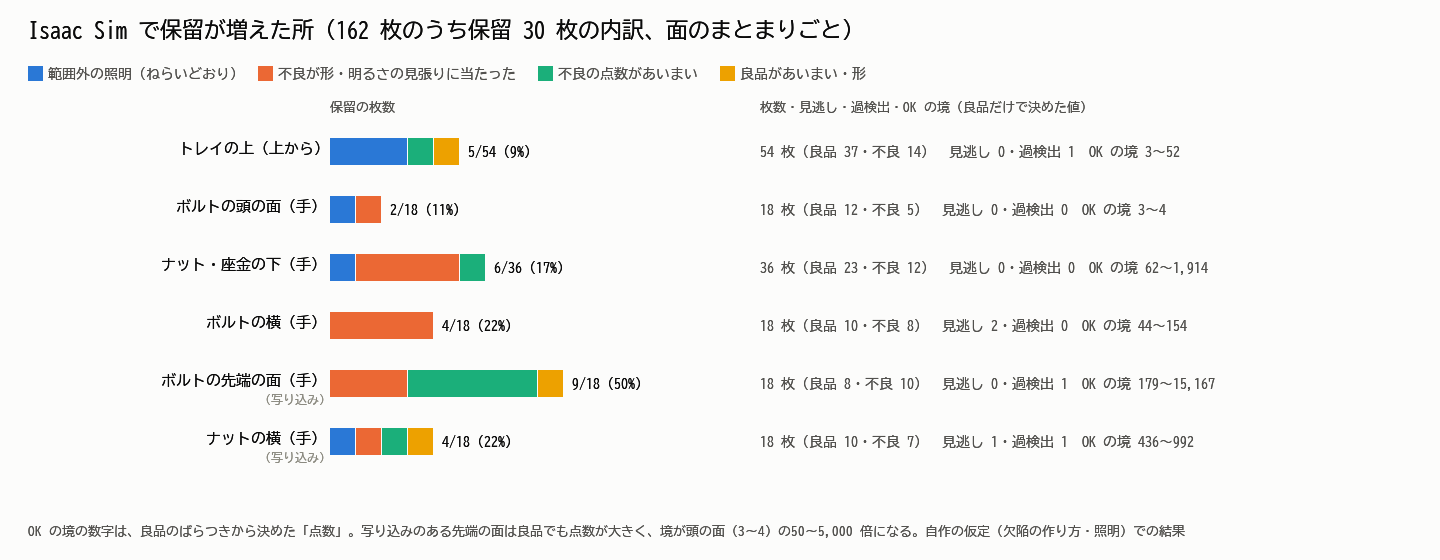
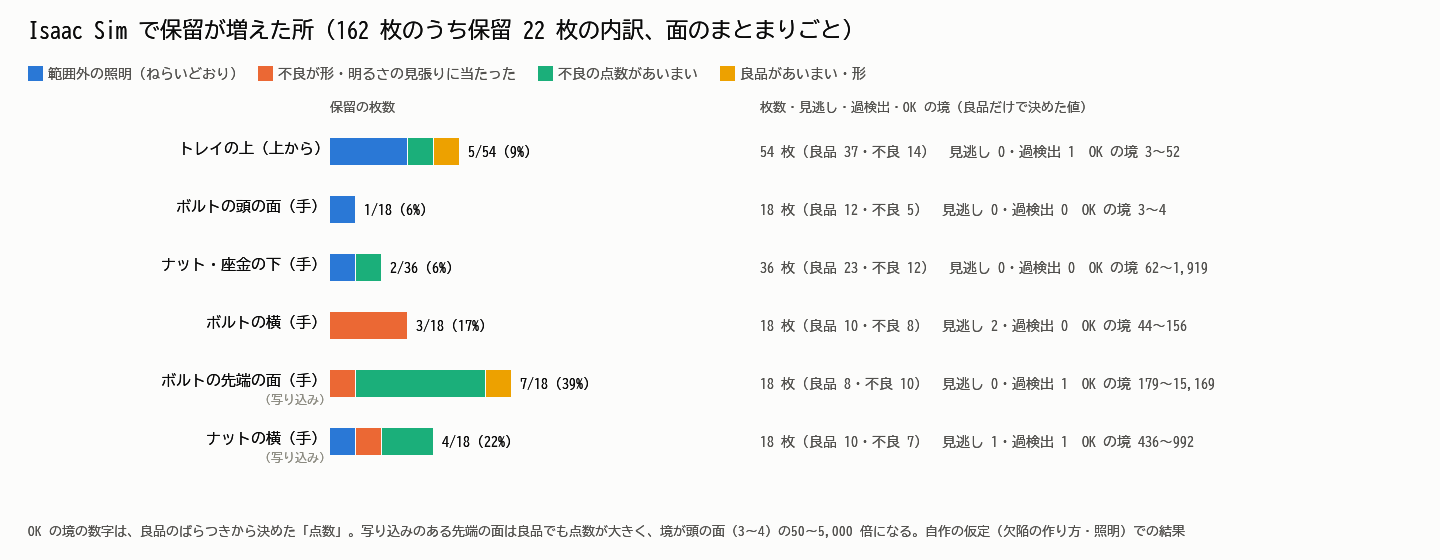
検査の見張りを「部品の面積」から「学んだ形との差」に直す（Isaac Sim の保留 18.5% → 13.6%、見逃し・過検出は据え置き）
- inspection.py: 合わせたマスクと学んだ形を比べ、欠け（濃い汚れ・打痕の候補 → 点数へ）とはみ出し（指・隣の部品 → 良品で学んだ範囲で見張る）を分ける。
  欠けて重心がずれたら相互相関で学んだ形に合わせ直し、明るさの平面は欠けた所を除いて当てはめる。欠けがない良品の判定は変わらない
- 見張りに当たっていた 13 枚のうち 8 枚が NG、5 枚は明るさの見張りで保留のまま。疑似画像 200 枚は変わらず
- pytest 6 件追加（test_dual_arm 134 件合格）。isaac/README と図を作り直し、LOG.md に 2026-11-08 の節

diff --git a/src/dual_arm_inspection/dual_arm_inspection/inspection.py b/src/dual_arm_inspection/dual_arm_inspection/inspection.py
@@ -3,13 +3,15 @@
 藤田さんのナレッジ「精度100%を目指さない外観検査AI」の考えに合わせた:
   - 良品だけで学ぶ: 部品と面の種類ごとに、良品の画像から「平均の見え方」と「ばらつき」を作る
   - 3 段判定: 確実に良品 → OK（自動で通す）、確実に不良 → NG（自動で弾く）、あいまい → 保留（人に回す）
-  - 範囲外の見張り: 明るさ・背景・明るさの傾き・部品の面積が、学んだときの範囲（使用範囲）から外れたら、
-    欠陥の点数に関係なく保留にして人に回す（照明の劣化や外からの光に気づく）
+  - 範囲外の見張り: 明るさ・背景・明るさの傾き・部品の形（学んだ形からのはみ出し）が、学んだときの範囲
+    （使用範囲）から外れたら、欠陥の点数に関係なく保留にして人に回す（照明の劣化や外からの光に気づく）。
+    部品の一部が暗く「欠けて」見えるのは濃い汚れ・打痕の可能性が高いので、範囲外にせず点数に回す
 
 やり方:
   1. 部品を背景から切り出す（大津の二値化 → いちばん大きい輪郭。小さい穴は欠陥なので埋め、大きい穴は残す）
-  2. 重心と軸の向きで、画像を決まった位置・向きに合わせる
-  3. 平均の見え方で割り、明るさの平面（倍率と傾き）を外れ値に強いやり方で当てはめて取り除く
+  2. 重心と軸の向きで、画像を決まった位置・向きに合わせる。部品が暗く欠けて（濃い汚れ・打痕）重心がずれたときは、
+     残った明るい所が学んだ形にいちばん収まる位置・向きへ合わせ直す
+  3. 平均の見え方で割り、明るさの平面（倍率と傾き）を外れ値に強いやり方で当てはめて取り除く（欠けた所は使わない）
   4. 残ったずれを、良品のばらつきで割った値（z）が大きい所をまとめ、いちばん大きいまとまりの強さを点数にする
   5. 点数の 2 つのしきい値（良品だけで決める）で 3 段に分ける
 """
@@ -27,8 +29,13 @@ Z_PIX = 3.0            # 1 画素が「ふつうでない」とみなす z（良
 MIN_AREA = 3
 SIGMA_FLOOR = 0.012
 ALIGN_TOL_PX = 0.35   # 位置合わせのずれの見込み（画素）
-ENV_MARGIN = {"gain": 0.04, "background": 5.0, "grad": 0.03}
-AREA_TOL = 0.15
+# 見張る量と、学んだ範囲に足す余裕。extra は学んだ形からの「はみ出し」の割合（指・隣の部品・別の部品に気づく。
+# 手で持つ面は良品でも指が写るので、良品で学んだ範囲で見る）
+ENV_MARGIN = {"gain": 0.04, "background": 5.0, "grad": 0.03, "extra": 0.03}
+MISSING_MAX = 0.60         # 学んだ形のこの割合より多く欠けていたら、欠陥ではなく部品が違う・見切れているとみなす
+REFINE_MIN = 0.02          # 欠けがこの割合を超えたら、重心がずれているので学んだ形に合わせ直す
+SHAPE_BAND_PX = 2          # 形を比べるとき、縁のこの幅は位置合わせのずれとして数えない
+FIT_ERODE_PX = 3           # 明るさの平面を当てはめるとき、欠けた所の縁からこの幅も使わない（ぼけた縁に引っ張られない）
 COLORS = {"OK": (12, 163, 12), "NG": (208, 59, 59), "HOLD": (250, 178, 25)}  # RGB（状態の色）
 LABEL_JA = {"OK": "OK", "NG": "NG", "HOLD": "保留"}
 _GRIDS: dict[tuple[int, int], tuple[np.ndarray, np.ndarray]] = {}
@@ -106,6 +113,60 @@ def align(gray: np.ndarray, mask: np.ndarray, profile: bool) -> tuple[np.ndarray
     return a, m, M
 
 
+def warp(gray: np.ndarray, mask: np.ndarray, M: np.ndarray) -> tuple[np.ndarray, np.ndarray]:
+    """2x3 の変換で画像とマスクを合わせる（align と同じ補間）。"""
+    h, w = gray.shape[:2]
+    a = cv2.warpAffine(gray, M, (w, h), flags=cv2.INTER_LINEAR, borderMode=cv2.BORDER_REPLICATE)
+    m = cv2.warpAffine(mask.astype(np.float32), M, (w, h), flags=cv2.INTER_LINEAR)
+    return a, m
+
+
+def shape_diff(m: np.ndarray, roi: np.ndarray) -> tuple[np.ndarray, np.ndarray]:
+    """合わせたマスクと学んだ形の差: (欠けた所, はみ出た所)。縁の SHAPE_BAND_PX 画素は位置合わせのずれとして数えない。
+
+    欠けた所 = 学んだ形の中なのに暗い（大津の二値化で部品から外れた）所。濃い汚れ・打痕・大きな穴
+    はみ出た所 = 学んだ形の外なのに明るい所。指・隣の部品・別の部品・照明の大きな変化
+    """
+    k = np.ones((2 * SHAPE_BAND_PX + 1,) * 2, np.uint8)
+    roi8 = roi.astype(np.uint8)
+    inner = cv2.erode(roi8, k) > 0
+    outer = cv2.dilate(roi8, k) > 0
+    bright = m > 0.5
+    return inner & ~bright, bright & ~outer
+
+
+def refine_align(mask: np.ndarray, M: np.ndarray, roi: np.ndarray, radius: float) -> tuple[np.ndarray, tuple[int, int]]:
+    """部品の一部が暗く欠けて重心がずれたとき、残った明るい所が学んだ形にいちばん収まる位置へずらし直す。
+
+    学んだ形の中を +1、外を -1 の重みにして、マスクを半径の半分までずらしながら重みの合計（相互相関）が
+    いちばん大きい所を探す。欠けた所は 0 なので効かず、はみ出すと減点される。向きは変えない（手で持つ面は
+    指も写るので、向きまで合わせ直すとかえってずれた）。戻り値は (直した 2x3 の変換, ずらした量 px)。
+    """
+    h, w = roi.shape
+    R = int(max(8, round(0.5 * radius)))
+    weight = np.where(roi, 1.0, -1.0).astype(np.float32)
+    padded = cv2.copyMakeBorder(weight, R, R, R, R, cv2.BORDER_CONSTANT, value=-1.0)
+    m = (cv2.warpAffine(mask.astype(np.float32), M, (w, h), flags=cv2.INTER_NEAREST) > 0.5).astype(np.float32)
+    res = cv2.matchTemplate(padded, m, cv2.TM_CCORR)
+    _, _, _, loc = cv2.minMaxLoc(res)
+    dx, dy = loc[0] - R, loc[1] - R
+    Mt = M.copy()
+    Mt[:, 2] += (dx, dy)
+    return Mt, (int(dx), int(dy))
+
+
+def fit_region(m: np.ndarray, roi: np.ndarray) -> np.ndarray:
+    """明るさの平面を当てはめる所: 学んだ形の中から、暗く欠けた所とそのぼけた縁（FIT_ERODE_PX）を除いた所。
+
+    欠けがなければ学んだ形の全部（＝前と同じ）。良品の判定は変わらない。
+    """
+    dark = (roi & ~(m > 0.5)).astype(np.uint8)
+    if not dark.any():
+        return roi
+    near_dark = cv2.dilate(dark, np.ones((2 * FIT_ERODE_PX + 1,) * 2, np.uint8)) > 0
+    return roi & ~near_dark
+
+
 def _plane_fit(R: np.ndarray, roi: np.ndarray, iters: int = 3) -> np.ndarray:
     """R ≈ a + b*x + c*y を、外れ値（欠陥）を除きながら当てはめる。"""
     ys, xs = np.nonzero(roi[::2, ::2])
@@ -125,10 +186,16 @@ def _plane_fit(R: np.ndarray, roi: np.ndarray, iters: int = 3) -> np.ndarray:
     return coef
 
 
-def measure(A: np.ndarray, mean: np.ndarray, roi: np.ndarray) -> tuple[np.ndarray, np.ndarray]:
-    """(ずれの地図 D, 明るさの平面の係数)。D = 画像 / (平均の見え方 × 平面) - 1。"""
+def measure(A: np.ndarray, mean: np.ndarray, roi: np.ndarray,
+            fit_roi: np.ndarray | None = None) -> tuple[np.ndarray, np.ndarray]:
+    """(ずれの地図 D, 明るさの平面の係数)。D = 画像 / (平均の見え方 × 平面) - 1。
+
+    fit_roi を渡すと、明るさの平面はその中だけで当てはめる（欠けた所＝濃い欠陥に引っ張られて
+    「暗くなった」と誤解しないため）。D は roi の全部で出す。
+    """
     R = np.where(roi, A / np.maximum(mean, 1e-3), 0.0)
-    coef = _plane_fit(R, roi)
+    fit_on = roi if fit_roi is None or fit_roi[::2, ::2].sum() < 20 else fit_roi
+    coef = _plane_fit(R, fit_on)
     xn, yn = _grid(roi.shape)
     plane = coef[0] + coef[1] * xn + coef[2] * yn
     D = np.where(roi, R / np.maximum(plane, 1e-3) - 1.0, 0.0).astype(np.float32)
@@ -201,12 +268,17 @@ class Inspector:
         return out
 
     # ---- 良品だけで学ぶ ----
-    def _features(self, gray, mask, tpl: Template, coef) -> dict:
+    def _features(self, gray, mask, tpl: Template, coef, m=None) -> dict:
         center = float(coef[0])
-        return {"gain": center / tpl.ref_level,
-                "background": background_level(gray, mask),
-                "grad": float(math.hypot(coef[1], coef[2]) / max(center, 1e-6) * tpl.radius / 100.0),
-                "area_ratio": float(mask.sum() / tpl.area)}
+        feats = {"gain": center / tpl.ref_level,
+                 "background": background_level(gray, mask),
+                 "grad": float(math.hypot(coef[1], coef[2]) / max(center, 1e-6) * tpl.radius / 100.0),
+                 "area_ratio": float(mask.sum() / tpl.area)}
+        if m is not None:
+            missing, extra = shape_diff(m, tpl.roi)
+            feats["missing"] = float(missing.sum() / tpl.area)   # 学んだ形のうち暗く欠けた割合（欠陥の候補）
+            feats["extra"] = float(extra.sum() / tpl.area)       # 学んだ形からはみ出た割合（見張りの対象）
+        return feats
 
     def calibrate(self, n_fit: int = 20, n_val: int = 20, seed: int = 20261106) -> dict:
         """疑似カメラで良品（欠陥なし・ふつうの照明）を撮り、それだけで学ぶ。"""
@@ -249,7 +321,7 @@ class Inspector:
             area = float(np.mean([mk.sum() for _, mk, _, _ in fit]))
             radius = math.sqrt(area / math.pi)  # 明るさの傾きを「部品の端から端で何割」に直すための大きさ
             tpl = Template(mean, np.ones_like(mean), roi, area, 1.0, radius)
-            measured = [measure(a, mean, roi) for _, _, a, _ in shots]
+            measured = [measure(a, mean, roi, fit_roi=fit_region(m, roi)) for _, _, a, m in shots]  # 判定と同じ当てはめ方
             devs = [cv2.GaussianBlur(D, (3, 3), 0) for D, _ in measured[:n_fit]]
             centers = [coef[0] for _, coef in measured[:n_fit]]
             tpl.ref_level = float(np.mean(centers))
@@ -260,7 +332,7 @@ class Inspector:
             edge = ALIGN_TOL_PX * np.hypot(gx, gy) / np.maximum(mean, 1e-3)
             sigma = np.sqrt(cv2.GaussianBlur(sigma, (0, 0), 1.0) ** 2 + edge ** 2)
             tpl.sigma = np.maximum(sigma, SIGMA_FLOOR).astype(np.float32)
-            feats = [self._features(gray, mk, tpl, coef) for (gray, mk, _, _), (_, coef) in zip(shots, measured)]
+            feats = [self._features(gray, mk, tpl, coef, m) for (gray, mk, _, m), (_, coef) in zip(shots, measured)]
             for k, margin in ENV_MARGIN.items():
                 vals = np.array([f[k] for f in feats])
                 spread = float(vals.max() - vals.min())
@@ -294,10 +366,19 @@ class Inspector:
         mask = segment(gray)
         if mask is None:
             return Result("HOLD", 0.0, "no_part")
-        a, m, M = align(gray, mask, base_type(face_type) in imaging.PROFILE_TYPES)
-        D, coef = measure(a, tpl.mean, tpl.roi)
-        feats = self._features(gray, mask, tpl, coef)
-        if abs(feats["area_ratio"] - 1.0) > AREA_TOL:
+        profile = base_type(face_type) in imaging.PROFILE_TYPES
+        a, m, M = align(gray, mask, profile)
+        missing, _ = shape_diff(m, tpl.roi)
+        shift = (0, 0)
+        if missing.sum() > REFINE_MIN * tpl.area:  # 暗く欠けて重心がずれたかもしれない → 学んだ形に合わせ直す
+            M, shift = refine_align(mask, M, tpl.roi, tpl.radius)
+            a, m = warp(gray, mask, M)
+        D, coef = measure(a, tpl.mean, tpl.roi, fit_roi=fit_region(m, tpl.roi))
+        feats = self._features(gray, mask, tpl, coef, m)
+        feats["shift"] = shift
+        # 形の見張り: 欠けが大きすぎる（部品が違う・見切れ）ときだけ範囲外。はみ出し（指・別の物）は
+        # 良品で学んだ範囲（env の extra）で見る。部品の中や縁が暗く欠けているのは濃い汚れ・打痕の候補なので点数へ
+        if feats["missing"] > MISSING_MAX:
             return Result("HOLD", 0.0, "shape", features=feats)
         for k in ENV_MARGIN:
             if not tpl.env_lo[k] <= feats[k] <= tpl.env_hi[k]:

diff --git a/src/dual_arm_inspection/test/test_imaging_inspection.py b/src/dual_arm_inspection/test/test_imaging_inspection.py
@@ -143,3 +143,97 @@ def test_fit_needs_enough_images(parts):
     img, _ = imaging.render(parts[1], "hex_end", np.random.default_rng(0))
     with pytest.raises(ValueError):
         ins.fit({(parts[1].name, "hex_end"): [img] * 3}, n_fit=3)
+
+
+# ---- 形の見張り（2026-11-08）: 濃い欠陥で部品が「欠けて」見えても範囲外にせず、点数に回す ----
+def _paint_dark_blob(img, cx, cy, r):
+    """部品の縁にかかる濃い汚れのつもりで、暗い円を描く（大津の二値化で部品から外れる大きさ）。"""
+    out = img.copy()
+    import cv2
+    cv2.circle(out, (int(cx), int(cy)), int(r), (30, 28, 26), -1, cv2.LINE_AA)
+    return out
+
+
+def test_dark_blob_at_edge_goes_to_score_not_shape(inspector, parts):
+    """大きく濃い汚れが縁にかかって部品の面積が 15% 以上減っても、形の見張りで保留にせず NG にする。"""
+    rng = np.random.default_rng(31)
+    bolt = parts[1]
+    img, truth = imaging.render(bolt, "hex_end", rng, (), imaging.Lighting())
+    cx, cy = truth["pose"]["cx"], truth["pose"]["cy"]
+    bad = _paint_dark_blob(img, cx + 55, cy, 34)  # 六角の右の縁にかかる暗い円
+    res = inspector.inspect(bad, bolt.name, "hex_end")
+    assert res.features["missing"] > 0.10          # 学んだ形の 1 割以上が暗く欠けている
+    assert res.features["area_ratio"] < 0.85       # 前の見張り（面積 15%）なら「shape」で保留になっていた
+    assert res.verdict == "NG" and res.reason == "defect", (res.verdict, res.reason, res.features)
+    assert res.defect_type == "stain" and res.boxes
+
+
+def test_dark_blob_inside_goes_to_score_not_shape(inspector, parts):
+    """部品の中の大きな暗い所（穴として切り出しから外れる）も、形の見張りではなく点数で NG。"""
+    rng = np.random.default_rng(32)
+    bolt = parts[1]
+    img, truth = imaging.render(bolt, "circle_end", rng, (), imaging.Lighting())  # ボルトの先端の面
+    cx, cy = truth["pose"]["cx"], truth["pose"]["cy"]
+    bad = _paint_dark_blob(img, cx + 20, cy - 8, 22)
+    res = inspector.inspect(bad, bolt.name, "circle_end")
+    assert res.features["missing"] > 0.05
+    assert res.verdict == "NG" and res.reason == "defect", (res.verdict, res.reason, res.features)
+
+
+def test_lighting_guard_still_works_with_dark_blob(inspector, parts):
+    """暗く欠けた所があっても、照明の見張り（明るさの倍率）は残っている。"""
+    rng = np.random.default_rng(33)
+    bolt = parts[1]
+    dim, truth = imaging.render(bolt, "hex_end", rng, (), imaging.Lighting(gain=0.5, ood=True))
+    cx, cy = truth["pose"]["cx"], truth["pose"]["cy"]
+    res = inspector.inspect(_paint_dark_blob(dim, cx + 55, cy, 34), bolt.name, "hex_end")
+    assert res.verdict == "HOLD" and res.reason == "out_of_range:gain"
+
+
+def test_extra_bright_object_is_out_of_range(inspector, parts):
+    """学んだ形からはみ出る明るい物（指・隣の部品）が部品にくっついて写ったら、範囲外として保留。"""
+    import cv2
+
+    rng = np.random.default_rng(34)
+    nut = parts[4]
+    img, truth = imaging.render(nut, "hex_ring", rng, (), imaging.Lighting())
+    cx, cy = int(truth["pose"]["cx"]), int(truth["pose"]["cy"])
+    out = img.copy()
+    cv2.rectangle(out, (cx + 40, cy - 12), (cx + 150, cy + 12), (190, 190, 195), -1)  # 右へ伸びる明るい棒
+    res = inspector.inspect(out, nut.name, "hex_ring")
+    assert res.features["extra"] > 0.15
+    assert res.verdict == "HOLD" and res.reason == "out_of_range:extra", (res.reason, res.features)
+
+
+def test_mostly_missing_part_is_shape(inspector, parts):
+    """学んだ形の大部分が欠けている（別の部品・見切れ）ときは、欠陥ではなく形の範囲外。"""
+    rng = np.random.default_rng(35)
+    bolt = parts[1]
+    img, truth = imaging.render(bolt, "hex_end", rng, (), imaging.Lighting())
+    cx = int(truth["pose"]["cx"])
+    out = img.copy()
+    out[:, : cx + 50] = (36, 36, 36)  # 右の端の 2 割ほどだけ残して、背景で塗りつぶす（見切れ）
+    res = inspector.inspect(out, bolt.name, "hex_end")
+    assert res.verdict == "HOLD" and res.reason == "shape"
+    assert res.features["missing"] > I.MISSING_MAX
+
+
+def test_shape_diff_and_refine_align():
+    """shape_diff は欠け・はみ出しを分け、refine_align はずれた位置を学んだ形に戻す。"""
+    import cv2
+
+    roi = np.zeros((120, 160), bool)
+    cv2.rectangle(roi.view(np.uint8), (40, 30), (120, 90), 1, -1)
+    m = roi.astype(np.float32).copy()
+    m[40:60, 50:70] = 0.0            # 中に欠け
+    m[50:70, 125:140] = 1.0          # 右にはみ出し
+    missing, extra = I.shape_diff(m, roi)
+    assert 350 <= missing.sum() <= 400 and 250 <= extra.sum() <= 300
+    assert not missing[:, 0:40].any() and not extra[:, 40:121].any()
+    # 位置合わせ: 右下が欠けたマスクを (+7, -5) ずらして渡すと、refine_align が (-7, +5) 戻す
+    mask = roi.astype(np.uint8)
+    mask[70:91, 90:121] = 0
+    M = np.array([[1.0, 0.0, 7.0], [0.0, 1.0, -5.0]])
+    M2, shift = I.refine_align(mask, M, roi, radius=40.0)
+    assert shift == (-7, 5)
+    assert np.allclose(M2[:, 2], (0.0, 0.0))
